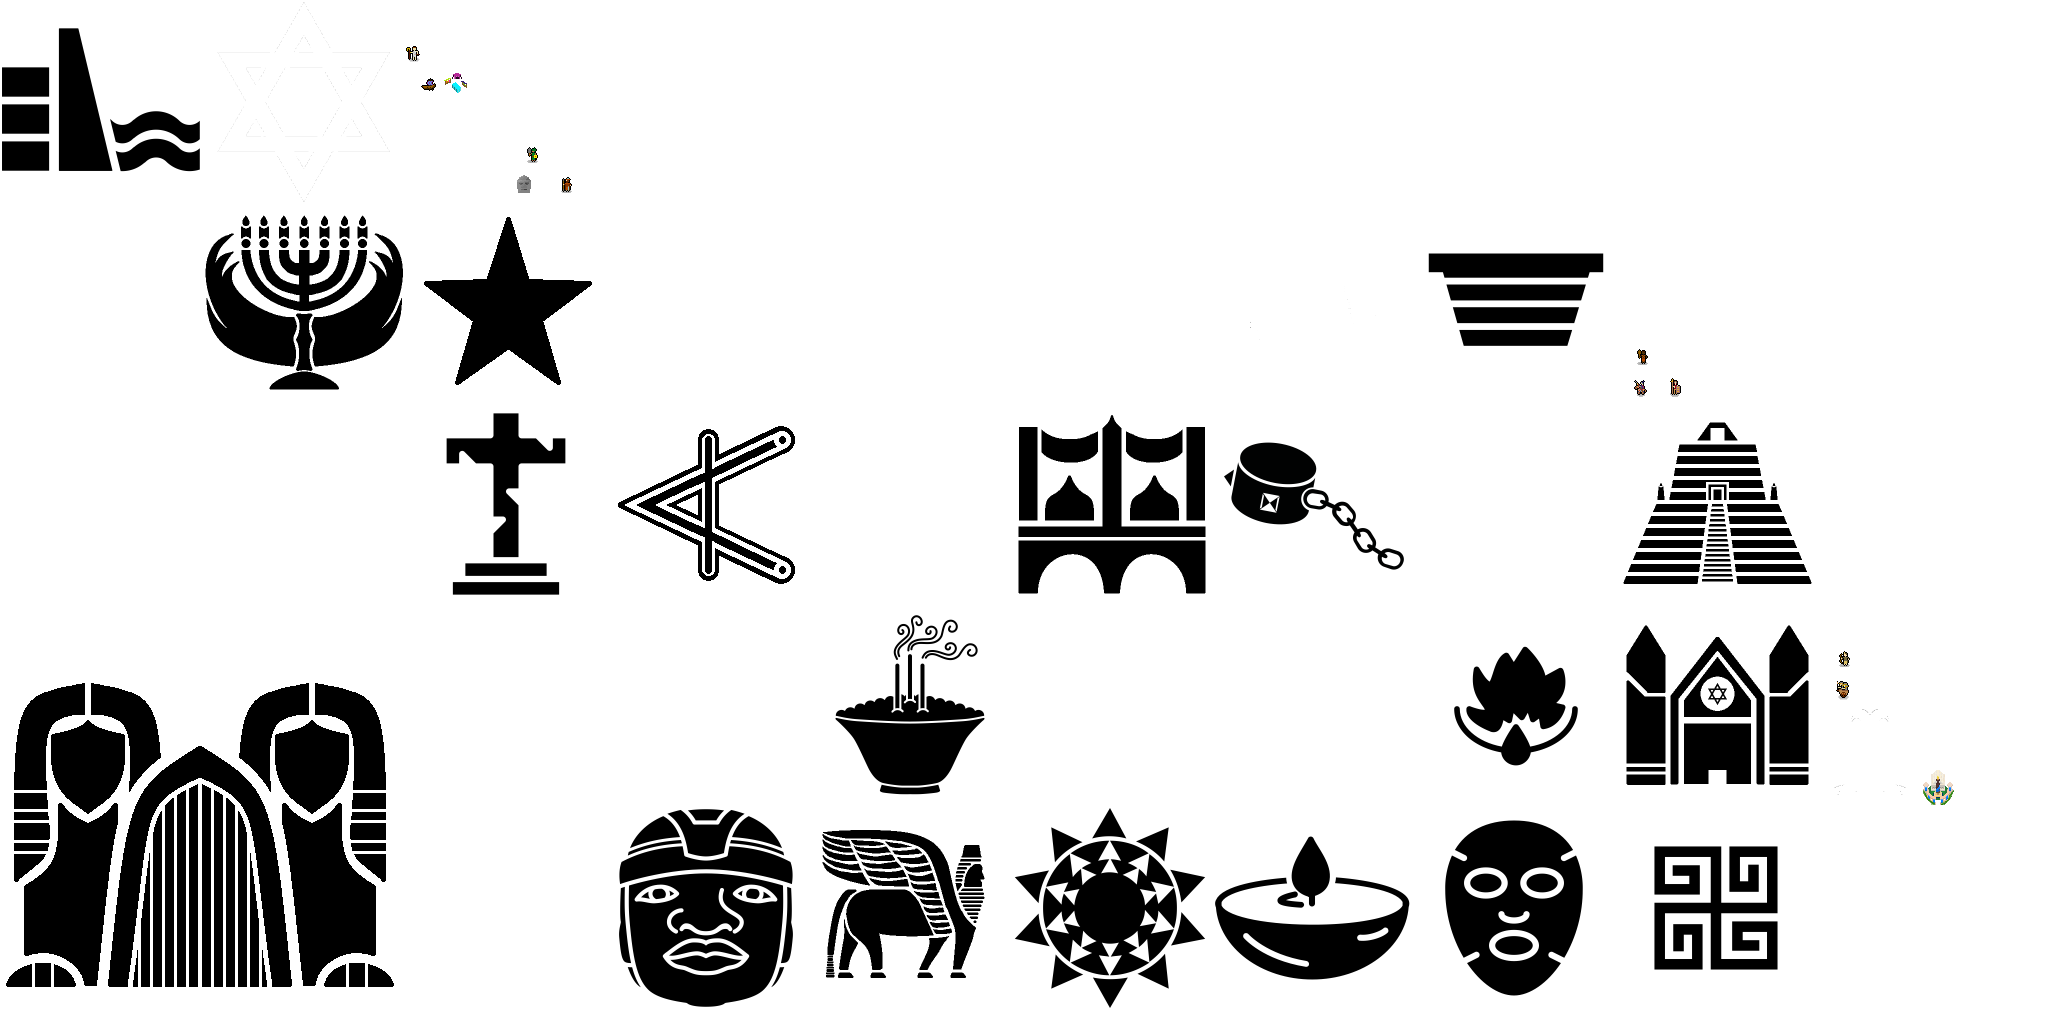
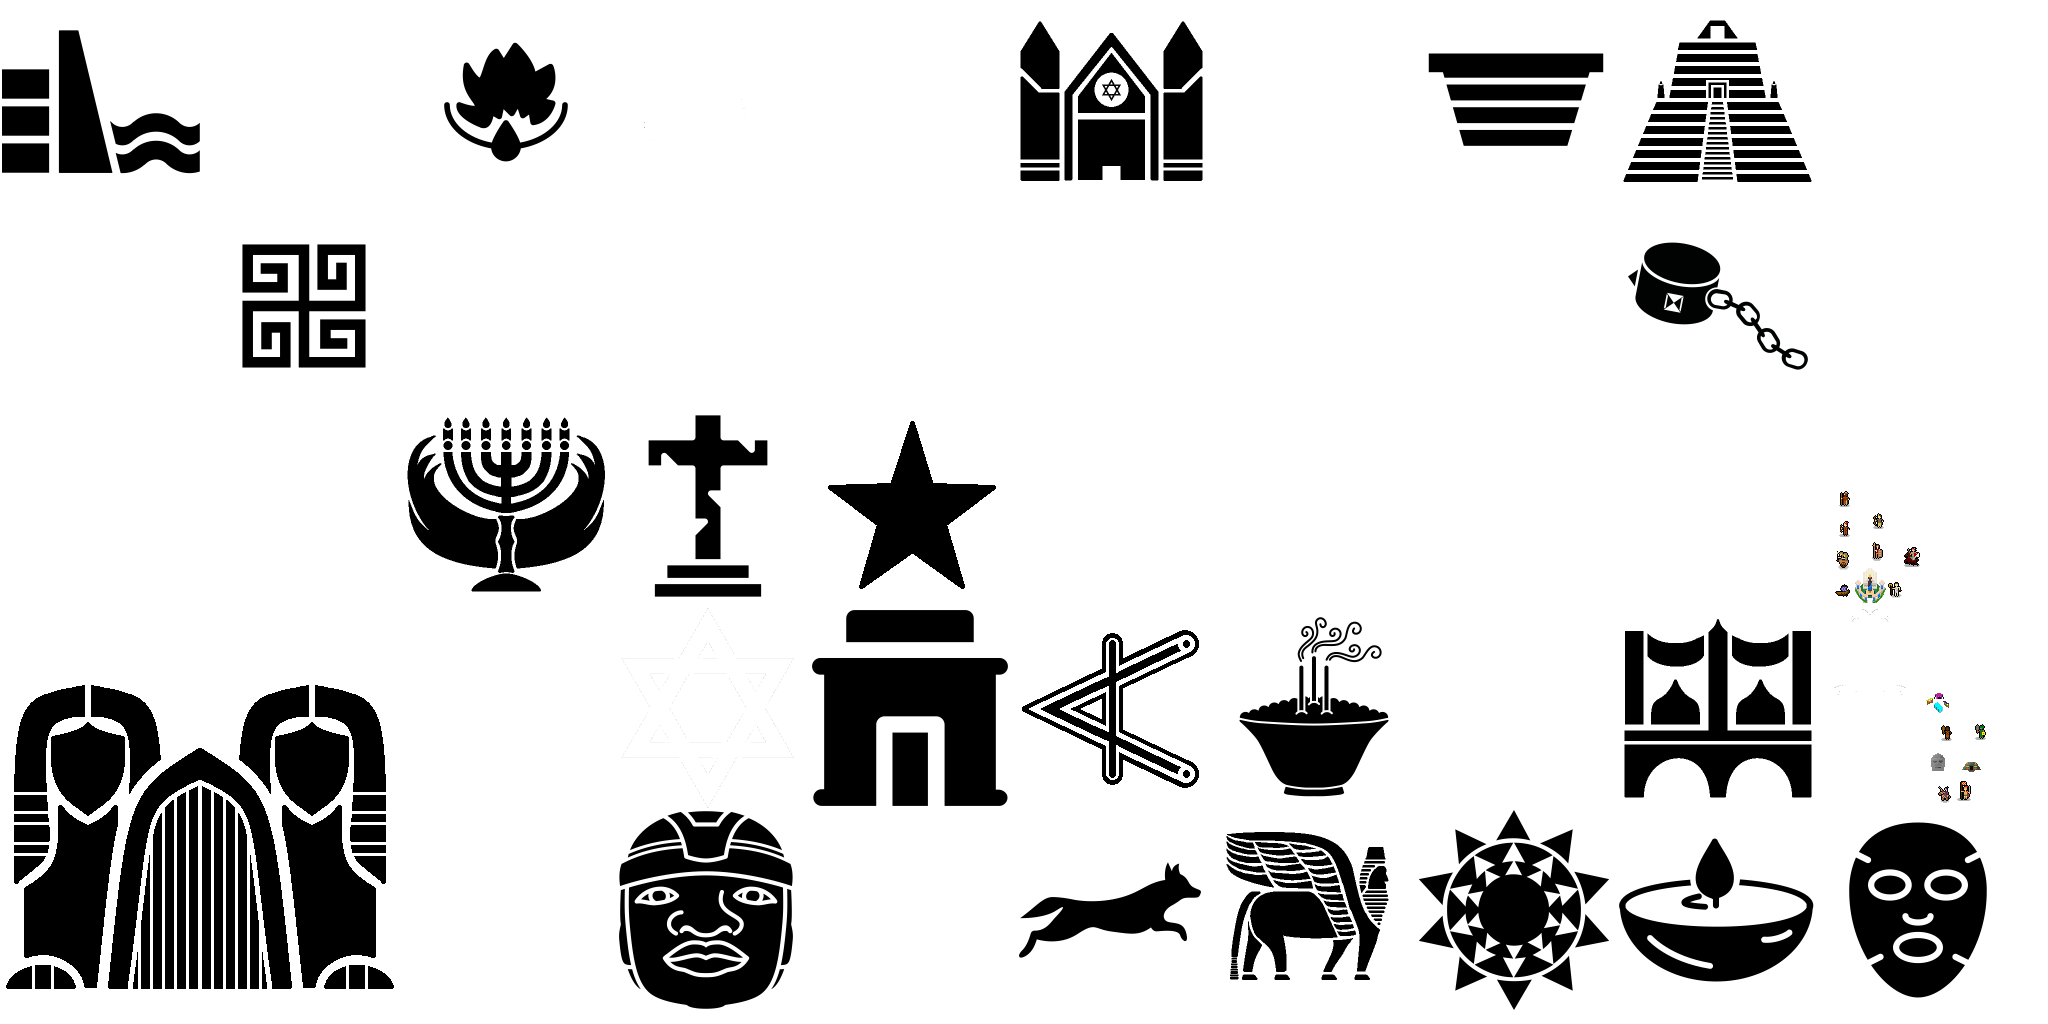
update

diff --git a/credits.md b/credits.md
@@ -59,6 +59,27 @@ By Tanya Magdieva,
 
 incense candle https://thenounproject.com/term/incense-candle/2126705
 By ProSymbols,
+
+Deer https://thenounproject.com/term/deer/734837
+By Laymik
+
+tomb https://thenounproject.com/term/tomb/281300
+By Vectors Market 
+
+bow and arrow https://thenounproject.com/term/bow-and-arrow/1645775
+By sarah
+
+Dog https://thenounproject.com/term/dog/1026726
+By Bakunetsu Kaito 
+
+Horse https://thenounproject.com/term/horse/183940
+By Arthur Bauer
+
+Flag https://thenounproject.com/term/flag/1423998
+By Kangrif
+
+Horse https://thenounproject.com/term/horse/24573
+By Thier Mundim,
 -----------
 Artaxiad dynasty flag https://www.peopleofar.com/2017/01/30/reconstructing-artaxiad-flag/ by PeopleOfAr
 
